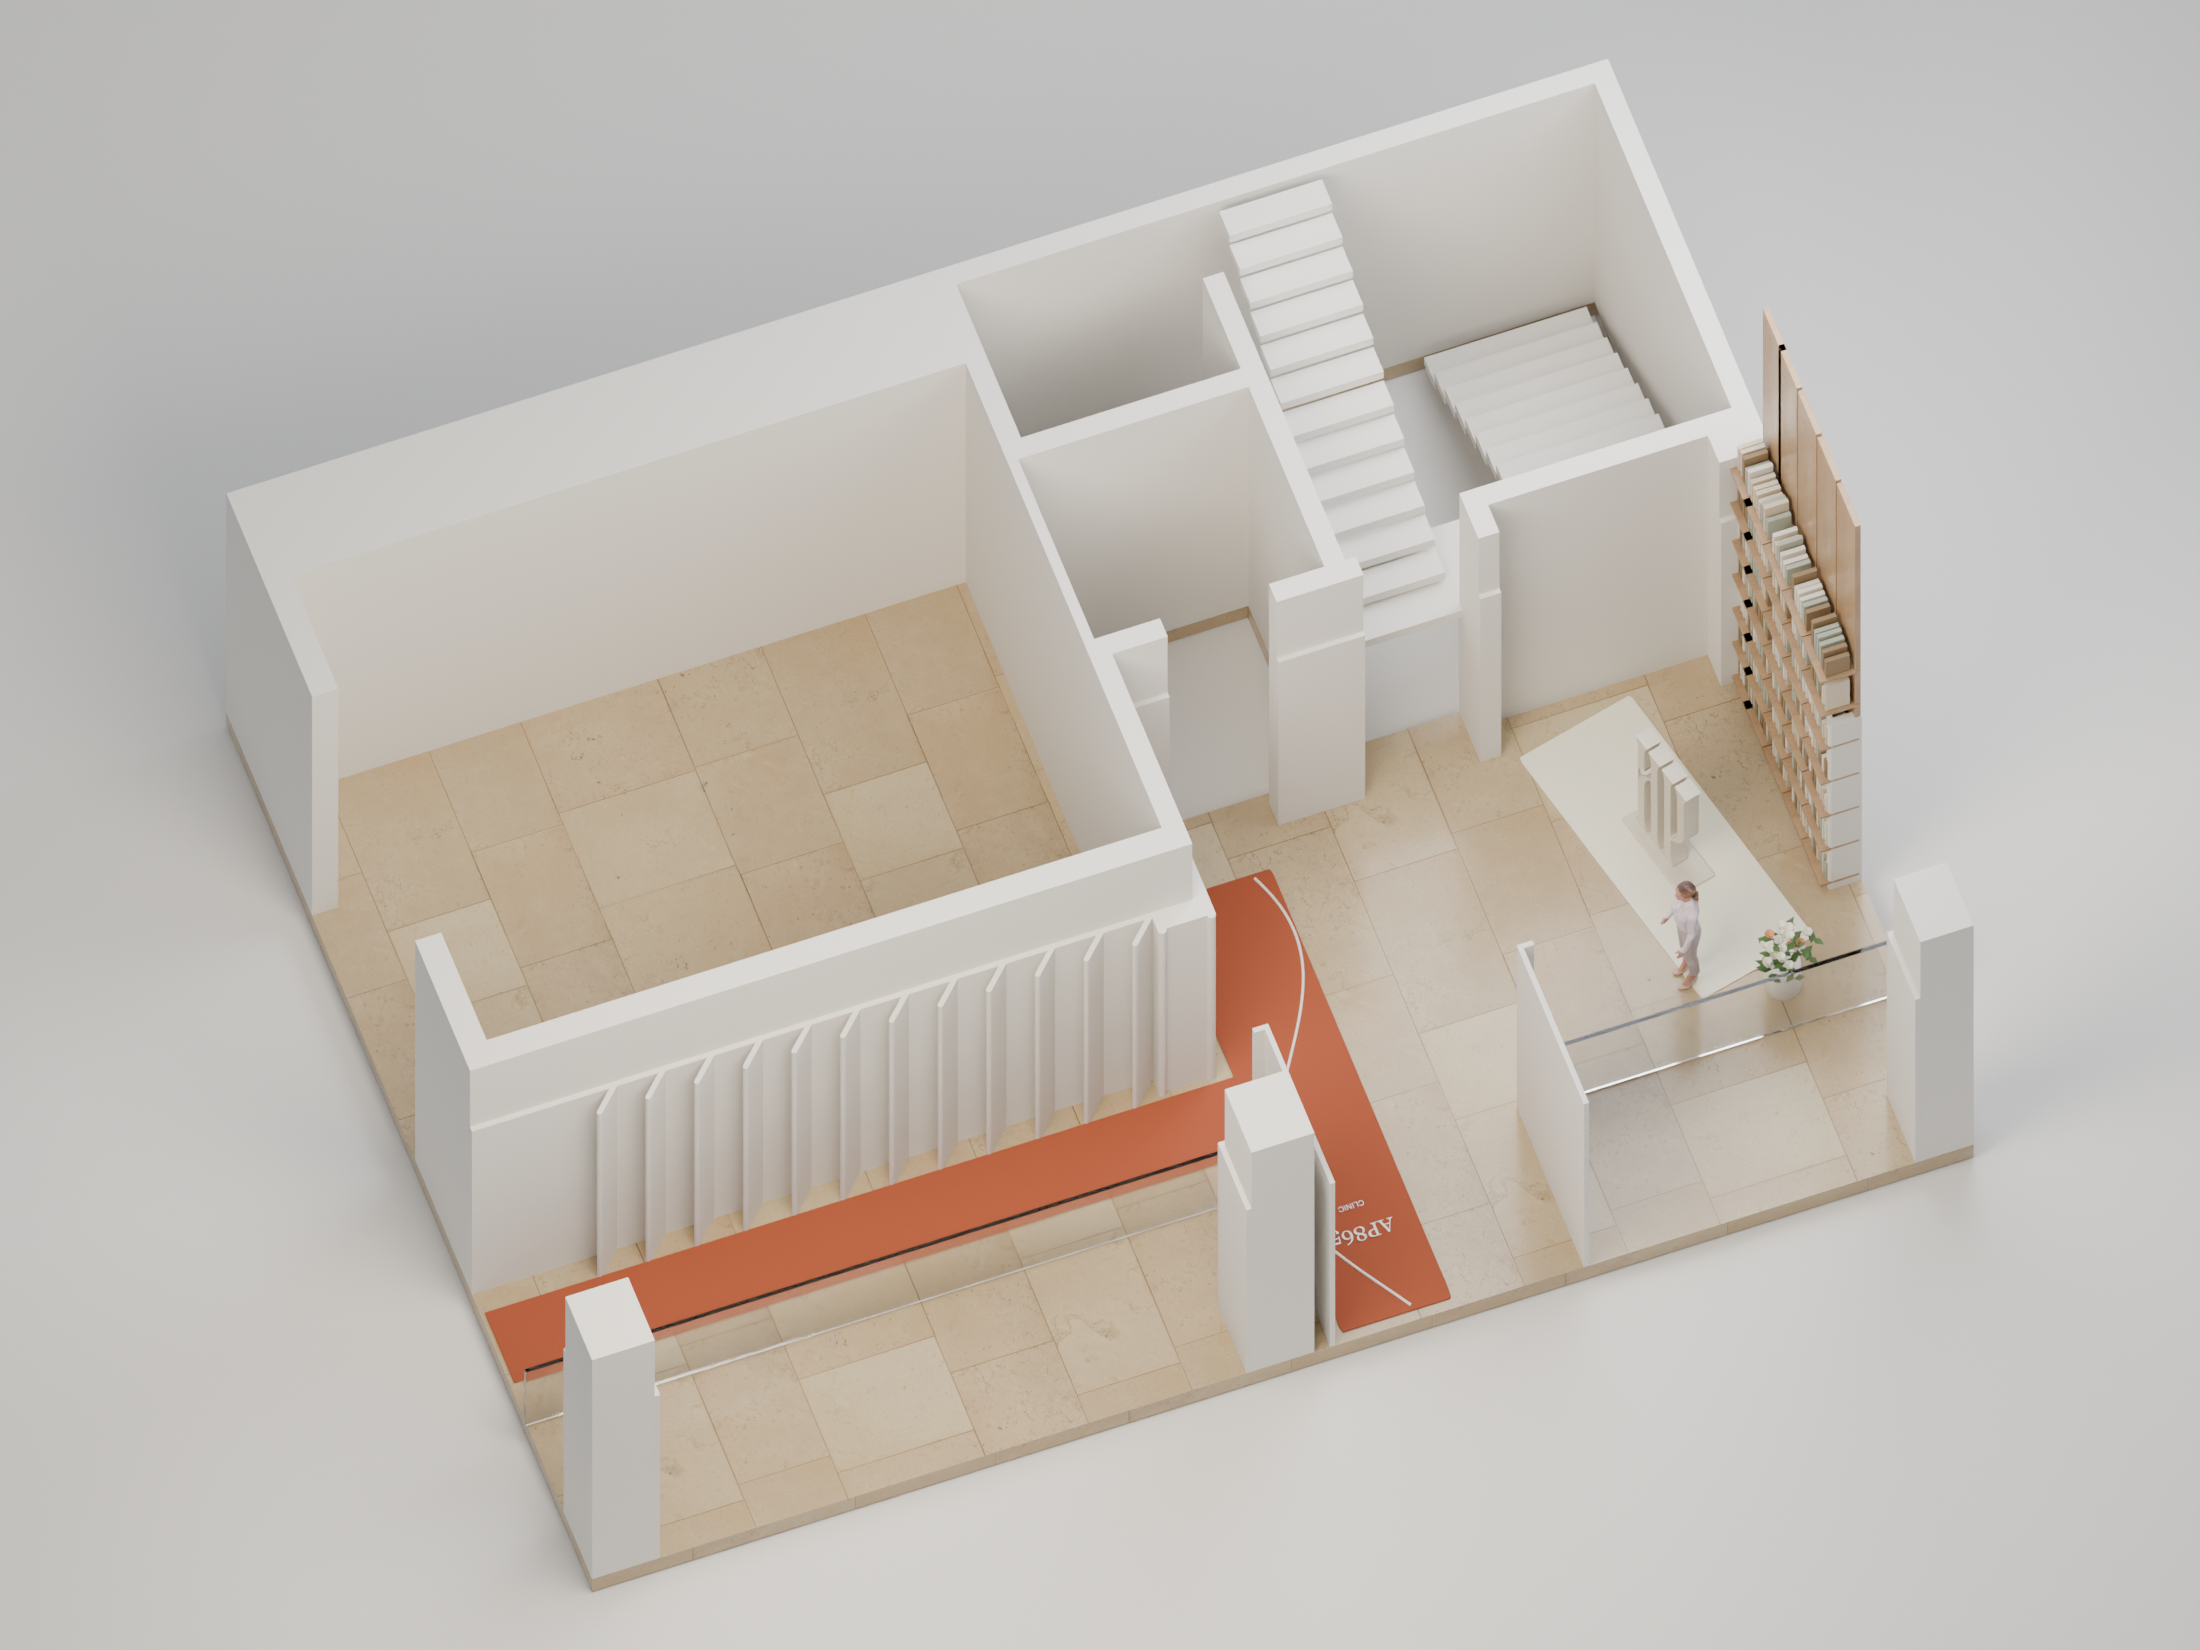
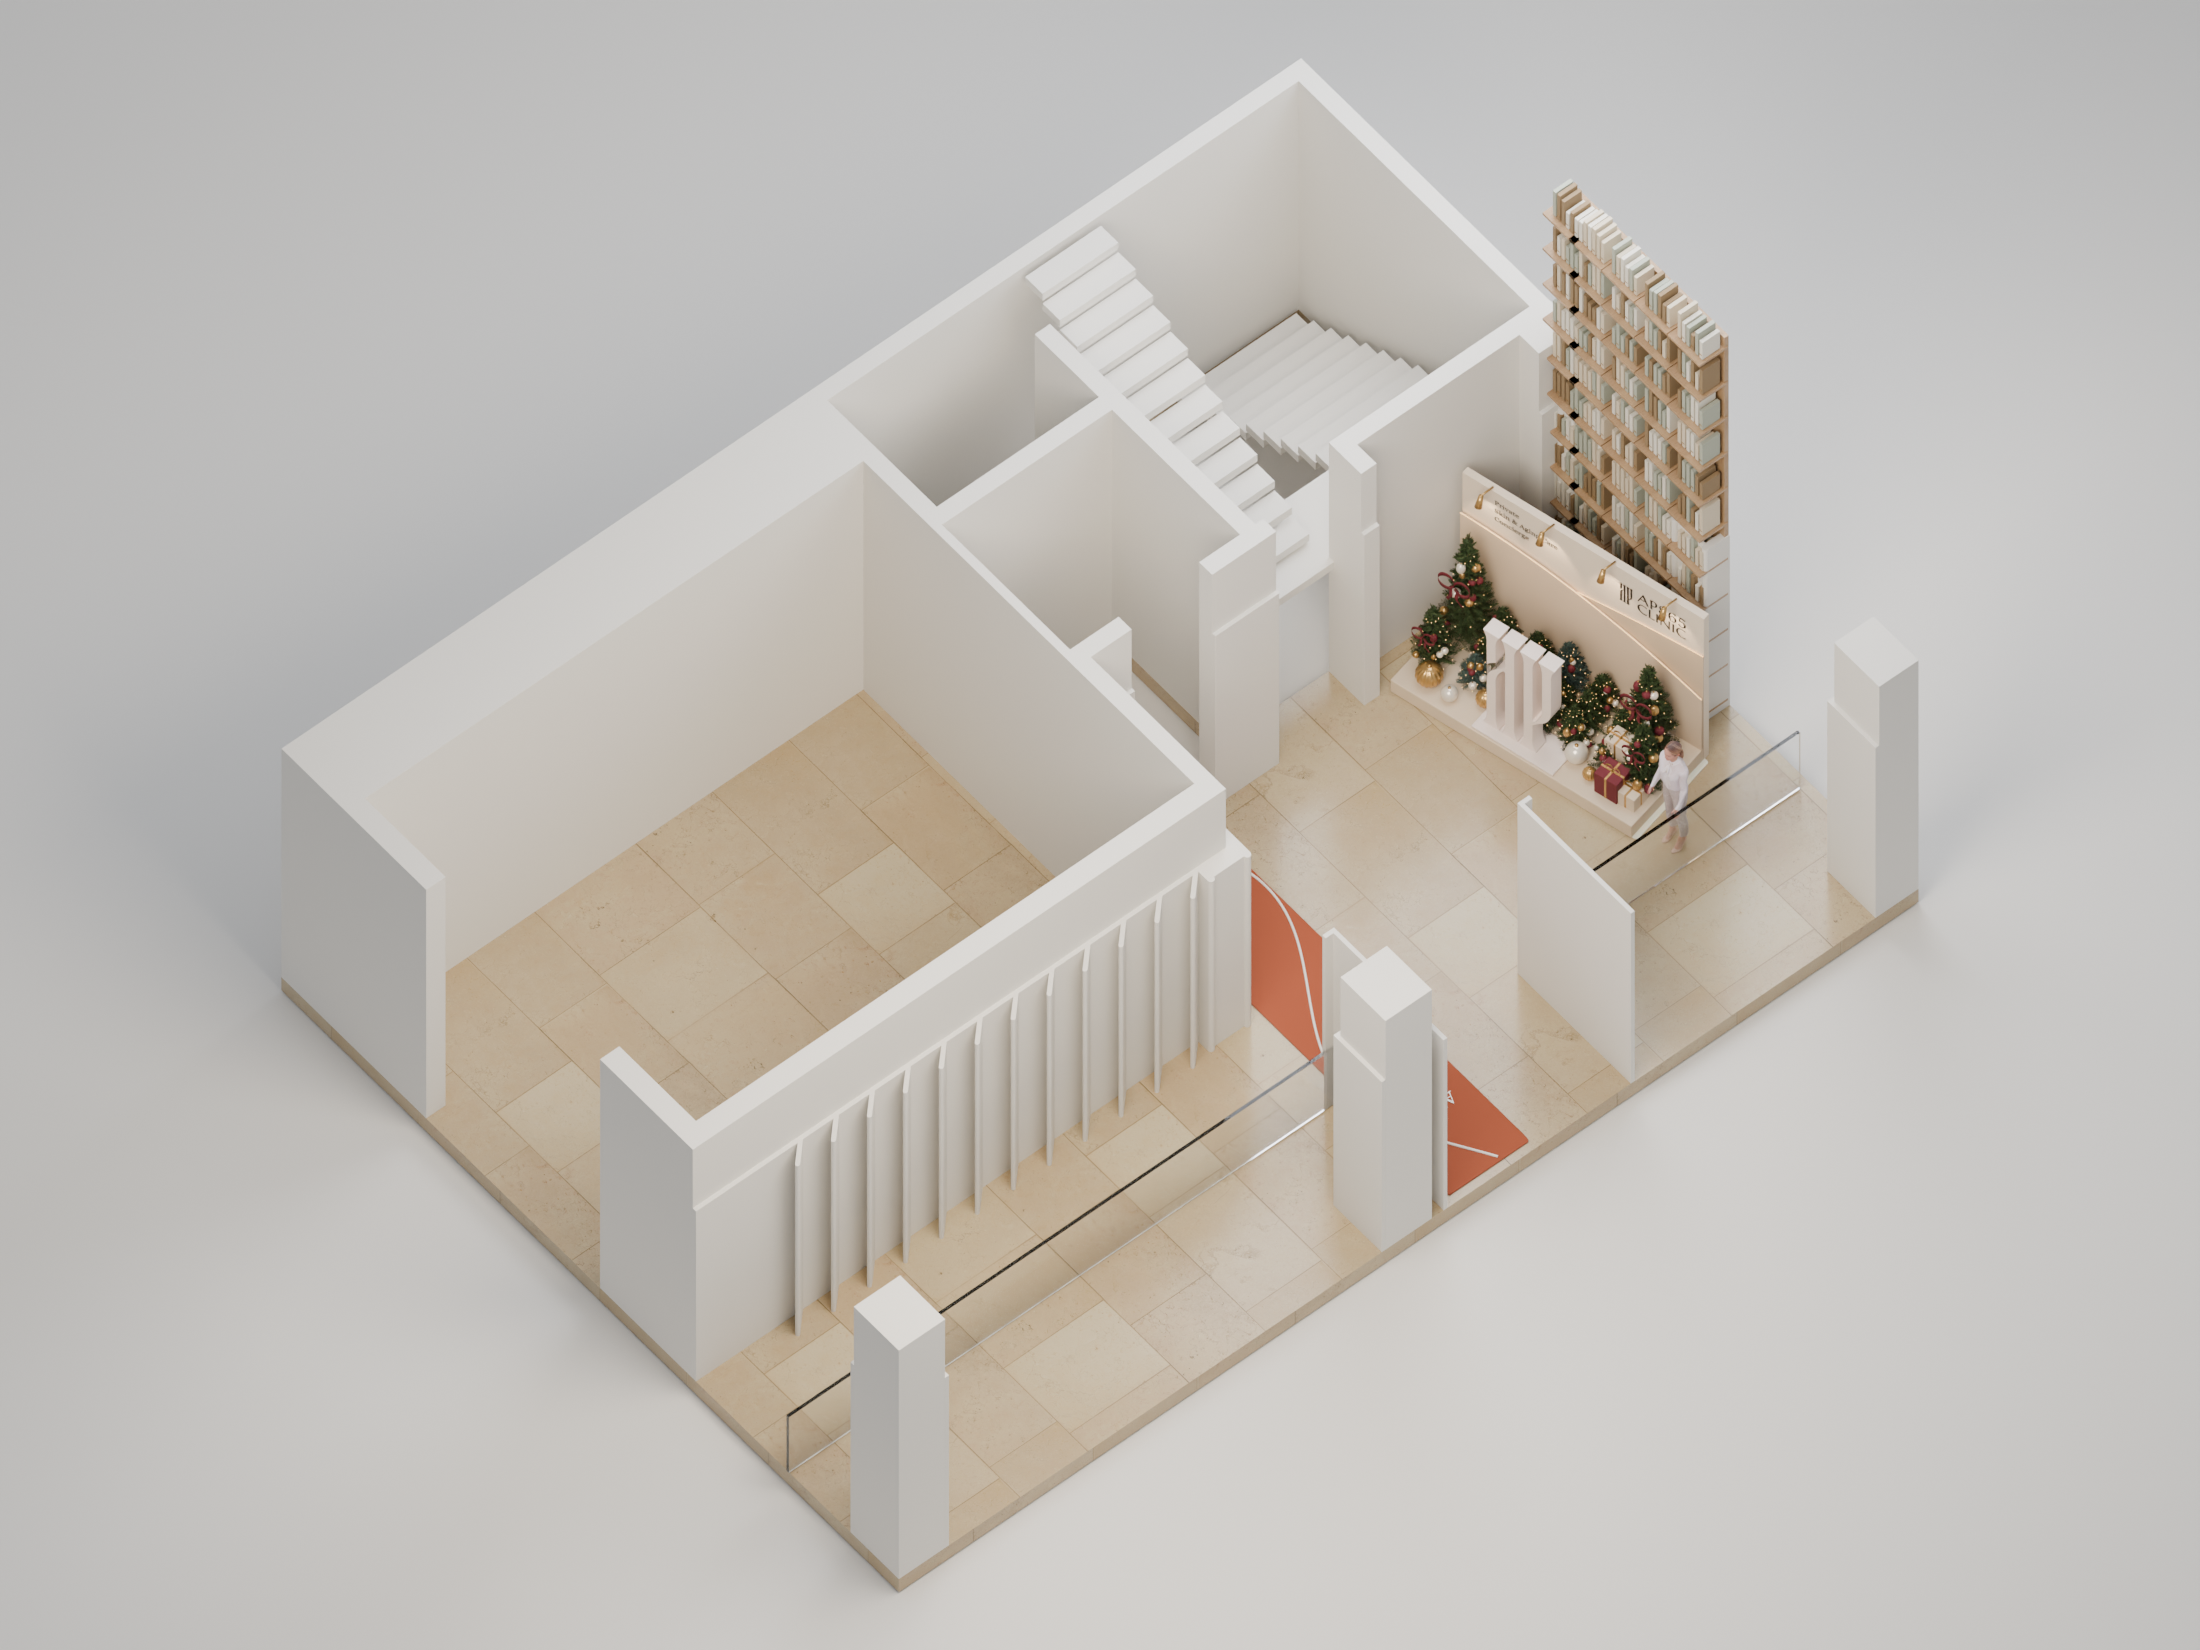
Refresh the lobby from the current Blender scene and correct the tour wording

Changed region(s): [[0.0927, 0.0309, 0.8964, 0.9582], [0.7109, 0.0309, 0.7418, 0.0927]]

diff --git a/public/ceremony/spaces.js b/public/ceremony/spaces.js
@@ -1,4 +1,4 @@
-const floorNames={1:'포토존',4:'스파',5:'장비 전시',6:'장비 전시',7:'장비 전시',8:'더 라운지',9:'VIP 라운지',10:'프라이빗 룸'};
+const floorNames={1:'포토존',4:'복귀 안내',5:'장비 전시',6:'장비 전시',7:'장비 전시',8:'더 라운지',9:'VIP 라운지',10:'프라이빗 룸'};
 const phaseOrder=['arrival','ceremony','walk','care','networking'];
 const spaces={
   arrival:{title:'도착 · 접수',floorLabel:'1F · 8F',location:'1층 접수·포토존 / 8층 웰컴 드링크',floors:[1,8],image:'render-model-1.webp',alt:'블렌더로 본 1층 포토존', tag:'1층 심볼 포토존 · 공란 명찰 약 15개',
@@ -7,7 +7,7 @@ const spaces={
   ceremony:{title:'본식 · 대표원장 환영 인사',floorLabel:'8F',location:'8층 무대 · 스탠딩 테이블',floors:[8],image:'render-model-8.webp',alt:'8층 무대와 스탠드테이블 10개',tag:'사회 하태경 · 환영 인사와 진료 방향 소개 홍관 대표원장',
     posts:[['mc','8F','사회','하태경',1],['director','8F','환영 인사 · 진료 방향 소개','홍관 원장님',1],['tech','8F','음향 · 영상'],['stage','8F','무대 · 리본'],['photo','8F','촬영'],['draw','8F','추첨 · 건배']],
     actions:['개회·필름 재생','대표원장 소개·마이크 전달','리본 커팅·촬영','추첨·건배·선물 안내']},
-  walk:{title:'공간 · 장비 관람',floorLabel:'10F → 4F',location:'10층 출발 / 4층 복귀 안내',floors:[10,9,8,7,6,5,4],image:'space-walk.webp',alt:'블렌더로 본 10층 프라이빗 룸',tag:'10층 출발 · 5–7층 장비 전시 · 4층 스파',
+  walk:{title:'공간 · 장비 관람',floorLabel:'10F → 4F',location:'10층 출발 / 4층 복귀 안내',floors:[10,9,8,7,6,5,4],image:'space-walk.webp',alt:'블렌더로 본 10층 프라이빗 룸',tag:'10층 출발 · 5–7층 장비 전시 · 4층 복귀 안내',
     posts:[['start','10F','관람 출발'],['vip','9F','VIP 공간 안내'],['lounge','8F','승강기 안내'],['ex7','7F','장비 전시'],['ex6','6F','장비 전시'],['ex5','5F','장비 전시'],['return','4F','복귀 안내']],
     actions:['출발 인원 조율','층별 도슨트 인계','전시 담당 연결','8·9층 복귀 안내']},
   networking:{title:'카페 · 네트워킹',floorLabel:'8F · 9F',location:'8층 카페 / 9층 VIP 라운지',floors:[8,9],image:'render-model-8.webp',alt:'8층 카페와 라운지 입체 전개도',tag:'라운지 종이컵 · 코스터 · 워터 행택 입고',

diff --git a/public/ceremony/index.html b/public/ceremony/index.html
@@ -2,7 +2,7 @@
 <html lang="ko"><head>
 <meta charset="utf-8"><meta name="viewport" content="width=device-width, initial-scale=1"><meta name="theme-color" content="#f7f5f1">
 <meta name="robots" content="noindex,nofollow"><meta name="description" content="AP865 오프닝 세레모니의 공간별 타임라인, 배치도, 층별 담당자.">
-<title>오프닝 세레모니 · AP865 현장 운영</title><link rel="stylesheet" href="style.css?v=continuous-1125"></head>
+<title>오프닝 세레모니 · AP865 현장 운영</title><link rel="stylesheet" href="style.css?v=1125-photowall"></head>
 <body><a class="skip" href="#detail">행사 세부 일정으로 이동</a>
 <header class="wrap ceremony-header" id="top" aria-labelledby="guideTitle">
 <div class="pagehead"><h1 id="guideTitle">오프닝 세레모니</h1><p class="date"><time datetime="2026-12-01">2026.12.01 화</time> · 15:00–18:00</p></div>
@@ -12,4 +12,4 @@
 <main class="wrap">
 <div id="detail" tabindex="-1"></div><datalist id="personOptions"></datalist></main>
 <footer class="wrap"><span>AP865 CLINIC</span><div class="footer-tools"><button type="button" data-export>배치표 CSV</button><a href="https://invite.ap865.com/" target="_blank" rel="noopener">공식 초대장</a></div></footer>
-<script src="program.js?v=lobby-render-1125"></script><script src="spaces.js?v=lobby-render-1125"></script><script src="layout.js?v=1125-stage"></script><script src="furniture.js?v=blender-floors-1125"></script><script src="map-edit.js?v=continuous-1125"></script><script src="care.js"></script><script src="people.js?v=continuous-1125"></script><script src="memo.js?v=continuous-1125"></script><script src="app.js?v=1125-stage"></script><script src="shared.js?v=phase-memo-1125"></script></body></html>
+<script src="program.js?v=1125-tour-route"></script><script src="spaces.js?v=1125-tour-route"></script><script src="layout.js?v=1125-photowall"></script><script src="furniture.js?v=blender-floors-1125"></script><script src="map-edit.js?v=continuous-1125"></script><script src="care.js"></script><script src="people.js?v=continuous-1125"></script><script src="memo.js?v=continuous-1125"></script><script src="app.js?v=1125-photowall"></script><script src="shared.js?v=phase-memo-1125"></script></body></html>

diff --git a/public/ceremony/app.js b/public/ceremony/app.js
@@ -1,10 +1,14 @@
 'use strict';
 const $ = id => document.getElementById(id);
 const esc = value => String(value ?? '').replace(/[&<>"']/g,c=>({'&':'&amp;','<':'&lt;','>':'&gt;','"':'&quot;',"'":'&#39;'}[c]));
-const loungeRenderFiles=new Set(['render-model-8.webp','blender-plan-8.webp']);
+const floorMediaVersions={
+  'render-model-1.webp':'1125-photowall', 'blender-plan-1.webp':'1125-photowall',
+  'render-model-8.webp':'1125-stage', 'blender-plan-8.webp':'1125-stage'
+};
 function fileURL(name){
   if(typeof embeddedMedia!=='undefined')return embeddedMedia[name];
-  return 'media/'+encodeURIComponent(name)+(loungeRenderFiles.has(name)?'?v=1125-stage':'');
+  const version=floorMediaVersions[name];
+  return 'media/'+encodeURIComponent(name)+(version?'?v='+version:'');
 }
 const state={tasks:{},decisions:{},staff:{},extra:{},positions:{},people:{},leads:{}};
 function save(){renderPeople();if(window.guideSync)window.guideSync.record();}
@@ -58,7 +62,7 @@ function ceremonyScriptPanel(p){
     <nav class="script-index" aria-label="본식 순서 바로가기">${shortcuts}</nav>
     <ol class="script-steps">${rows}</ol>
     <div class="after-ceremony"><h4>본식 이후</h4>
-      <p><b>${walk.from}–${walk.until}</b><span>공간 관람 · 10층에서 출발해 4층 스파까지 자유 관람</span></p>
+      <p><b>${walk.from}–${walk.until}</b><span>공간 관람 · ${esc(walk.floor)} 자유 관람</span></p>
       <p><b>${care.from}–${care.until}</b><span>프라이빗 케어 · 관람과 동시에 예약 회차별로 지정 룸 이용</span></p>
       <p><b>${networking.from}–${networking.until}</b><span>네트워킹 · 8층 카페와 9층 VIP 라운지. 케어를 마친 손님도 합류</span></p>
       <p><b>${networking.until}</b><span>행사 종료 · 기념선물 전달 및 배웅</span></p>

diff --git a/public/ceremony/layout.js b/public/ceremony/layout.js
@@ -52,7 +52,7 @@ function mapFile(floor){
   return floor===1||floor===8?'blender-plan-'+floor+'.webp':'plan-'+floor+'f.webp';
 }
 function mapCaption(floor){
-  if(floor===1)return '입구–옆문 레드카펫 · 심볼 포토존';
+  if(floor===1)return '심볼 포토월 · 크리스마스트리 · 옆문까지 레드카펫 연장 예정';
   if(floor===8)return '스탠드테이블 '+tableCenters.length+'개 · 고정 바테이블 · 무대 '+stagePlaces.length+'곳';
   return '층별 공사 평면도';
 }
@@ -63,7 +63,7 @@ function mapPin(entry,guest){
 }
 function mapCanvas(id,floor,layer){
   const guest=layer==='guests'&&guestLayer(id,floor);
-  const carpet=floor===1?'<span class="side-carpet" role="img" aria-label="입구 카펫에서 옆문까지 이어지는 레드카펫">옆문</span>':'';
+  const carpet=floor===1?'<span class="side-carpet" role="img" aria-label="입구에서 옆문까지 레드카펫 연장 예정">옆문</span>':'';
   const furniture=floor===8?loungeFurniture():'';
   return '<div class="map-scroll"><div class="map-surface" data-map-surface="'+floor+'" tabindex="-1" aria-label="'+floor+'층 행사 배치도"><img class="map-art" src="'+fileURL(mapFile(floor))+'" alt="'+floor+'층 행사 배치도">'+carpet+furniture+'<div class="pins">'+mapEntries(id,floor,layer).map(p=>mapPin(p,guest)).join('')+'</div></div></div>';
 }

diff --git a/public/ceremony/program.js b/public/ceremony/program.js
@@ -88,7 +88,7 @@ const program = [
     id:'walk',label:'공간 및 장비 관람',en:'The Address Walk',from:'16:10',until:'17:00',
     floor:'10층부터 4층까지',lead:'층별 도슨트 · 장비 전시 담당',
     summary:'손님이 10층부터 4층까지 자기 속도로 관람할 수 있도록 층별 안내자가 다음 공간과 전시 담당자를 연결합니다.',
-    confirmed:[['10층 프라이빗 룸, 9층 VIP 라운지, 8층 라운지·카페, 5–7층 장비 전시, 4층 스파 순으로 공간을 안내합니다.','초대장 · 층별 안내']],
+    confirmed:[['10층 프라이빗 룸에서 출발해 9층 VIP 라운지, 8층 라운지·카페, 5–7층 장비 전시를 관람합니다. 4층에서 복귀 동선을 안내합니다.','초대장 · 층별 안내']],
     actions:[
       ['8층 안내','엘리베이터 앞에서 10층 출발 위치를 안내하고, 예약 케어 손님은 회차에 맞춰 코디네이터에게 연결합니다.'],
       ['층별 도슨트','입구에서 층별 맵을 짚어 공간의 용도와 다음 이동 경로를 간단히 안내합니다.'],

diff --git a/public/ceremony/style.css b/public/ceremony/style.css
@@ -13,7 +13,7 @@ dialog{width:min(475px,94vw);max-height:87dvh;background:var(--card);color:var(-
 .map-art{display:block;width:100%;height:auto}
 .map-surface{position:relative;isolation:isolate}
 /* 1F side entrance and lobby junction in the 806 × 588 plan coordinate system. */
-.side-carpet{position:absolute;left:1.4%;top:69%;height:7.5%;display:flex;align-items:center;color:#fff7ed;font-size:clamp(8px,.7vw,12px);font-weight:650;line-height:1;pointer-events:none}
+.side-carpet{position:absolute;box-sizing:border-box;left:1.26%;top:69.02%;width:55.57%;height:7.94%;padding-left:.4%;display:flex;align-items:center;background:rgba(161,64,38,.86);border-block:1px dashed #ead3c5;color:#fff7ed;font-size:clamp(8px,.7vw,12px);font-weight:650;line-height:1;pointer-events:none}
 .map-surface:focus{outline-offset:-3px}
 .map-tools{display:flex;align-items:center;gap:9px;flex-wrap:wrap;margin-top:8px}
 .layer-pick{display:inline-flex;padding:2px;border:1px solid var(--line);border-radius:5px;background:#f6f1e9}
